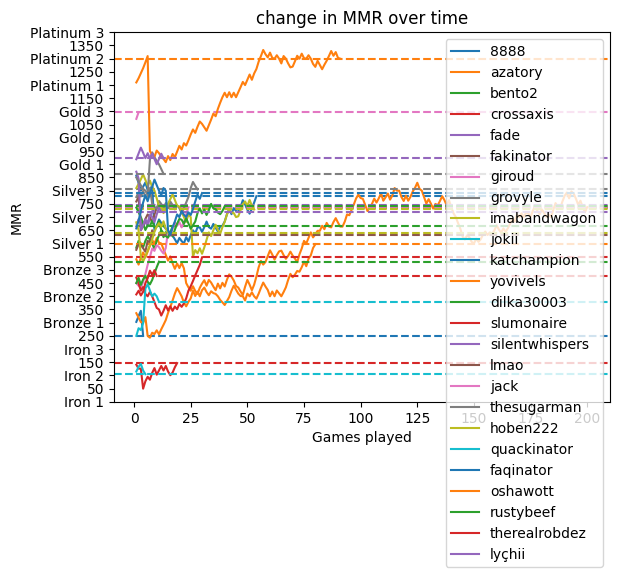
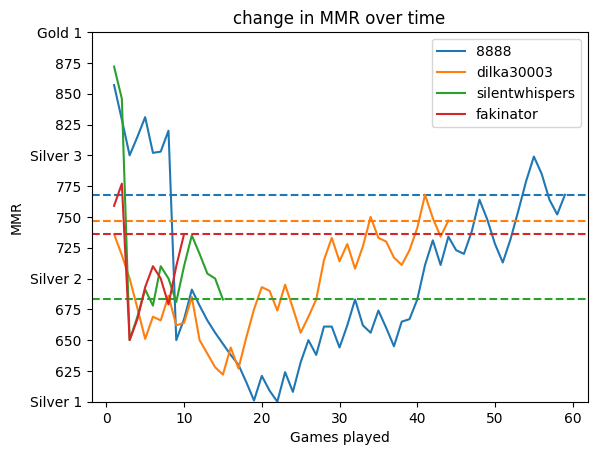
added horizontal line to single graph

diff --git a/graphs.py b/graphs.py
@@ -107,7 +107,9 @@ def make_graph(username):
     axes.set_yticklabels(labely)
     
 
-    plt.plot(x, y)
+    p = plt.plot(x, y)
+    colour = p[0].get_color()
+    plt.axhline(y=y[-1], color=colour, linestyle='--')
     plt.xlabel('Games played')
     plt.ylabel('MMR')
     plt.title(username + '\'s MMR over time')
@@ -127,7 +129,6 @@ def double_graph(players):
     mostGames = 0
     yvalues = []
     xvalues = []
-    colours = ["blue", "orange", "green", "red", "purple", "brown", "black", "pink"]
 
     for username in players:
         if os.path.isfile(f'/home/ubuntu/discord_bot/elo_history/{username}.txt') == False:
